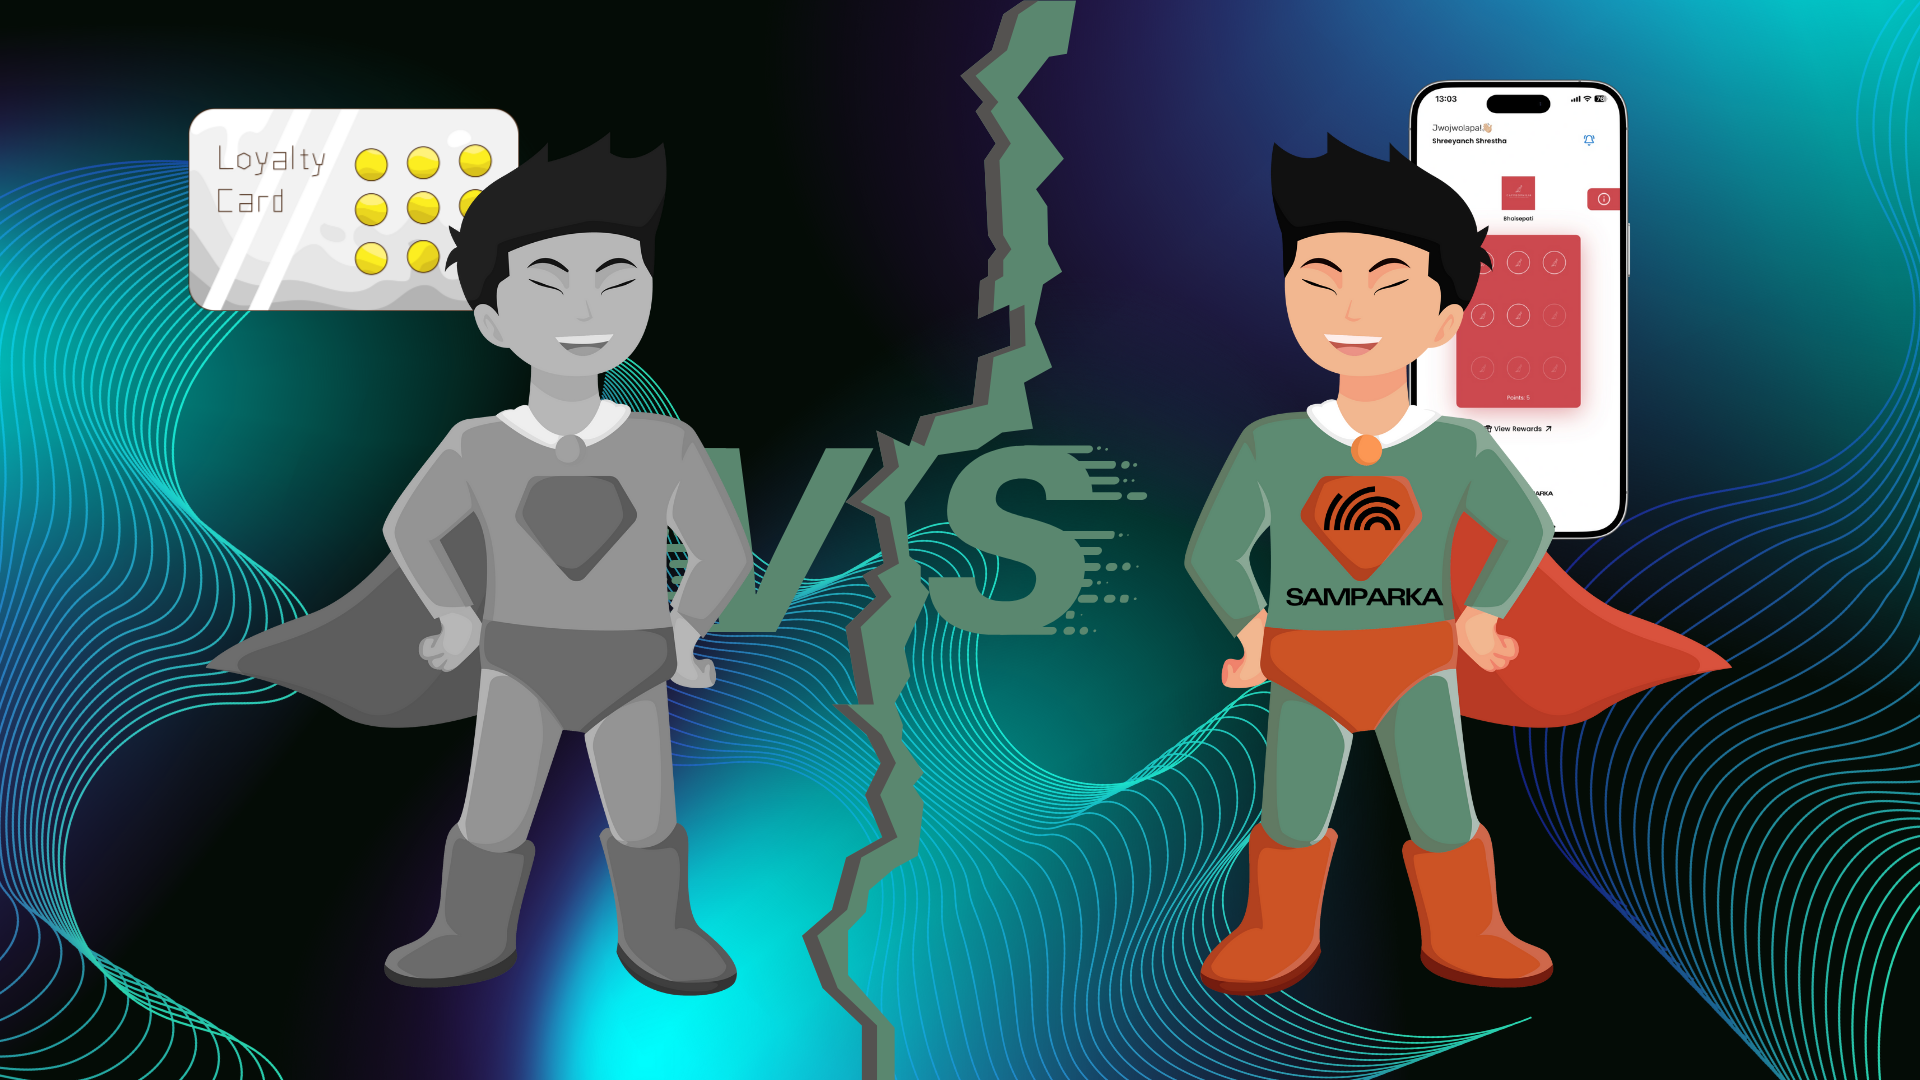
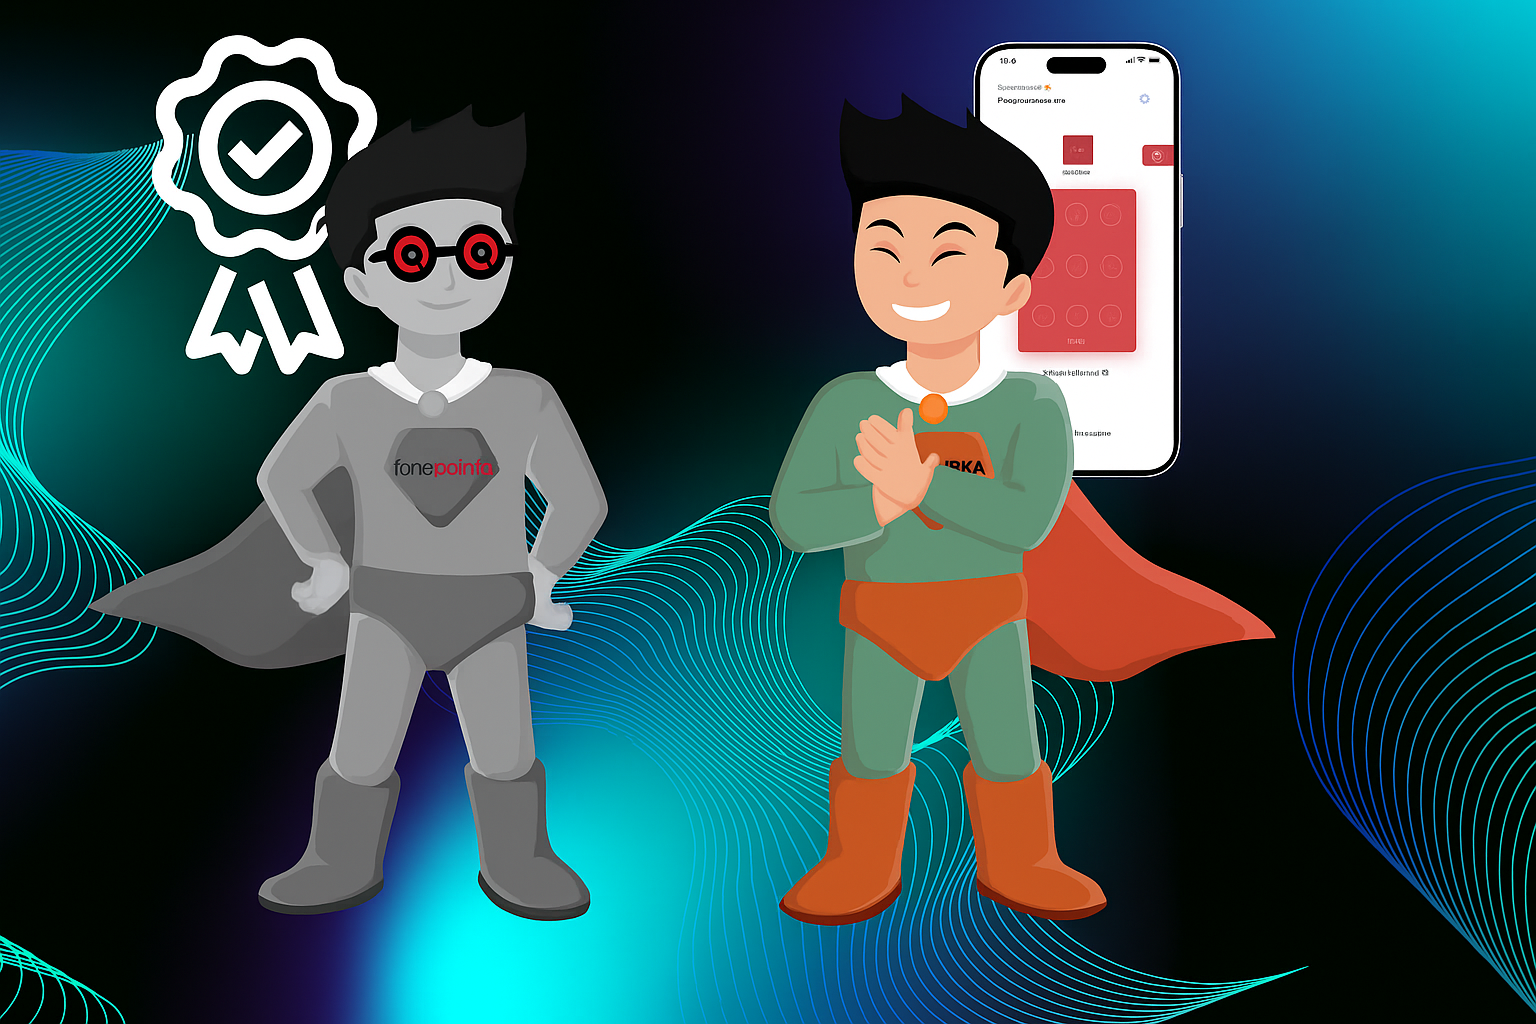
Points Economy

diff --git a/pages/blog.js b/pages/blog.js
@@ -513,7 +513,7 @@ const Blog = () => {
             <img
               className={styles.frameChild}
               alt=""
-              src="/pointsNepalBanner.png"
+              src="/pointsBanner.jpg"
             />
             <div className={styles.frameGroup}>
               <div className={styles.frameContainer}>
@@ -523,12 +523,12 @@ const Blog = () => {
                       <div className={styles.minRead}>5 min read</div>
                     </div>
                   </div>
-                  <b className={styles.boostYourBusiness}>Nepal’s New Hustle: Earning While You Spend
+                  <b className={styles.boostYourBusiness}>The Rise of the Point Economy: Why Loyalty Is the New Currency in Nepal
                   </b>
                 </div>
                 <div className={styles.asABusinessOwnerInNepalWrapper}>
                   <div className={styles.asABusiness}>
-                    Walk into any cafe, hop into a ride, or pay for groceries with your digital wallet in Kathmandu, and chances are you’re earning points. FonePoints..... 
+                    Walk into any cafe, hop into a ride, or pay for groceries with your digital wallet in Kathmandu, and chances..... 
                     </div>
                 </div>
               </div>

diff --git a/components/pointsTrend.js b/components/pointsTrend.js
@@ -66,7 +66,7 @@ const points = ({ className = "" }) => {
         <img
           className={styles.image33Icon}
           alt=""
-          src="/pointsNepal.png"
+          src="/pointsBanner.jpg"
         />
         <div className={styles.reviews} />
       </div>
